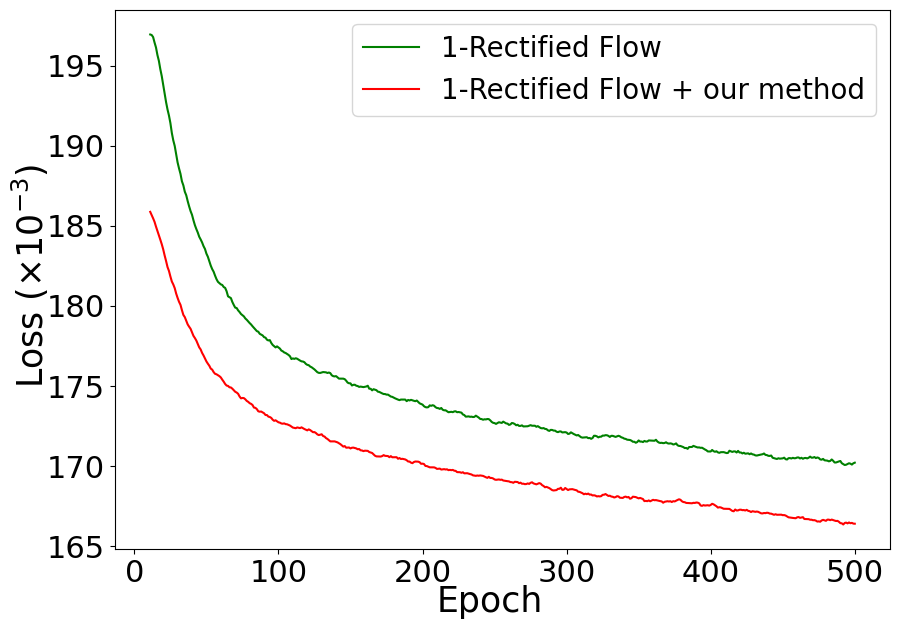
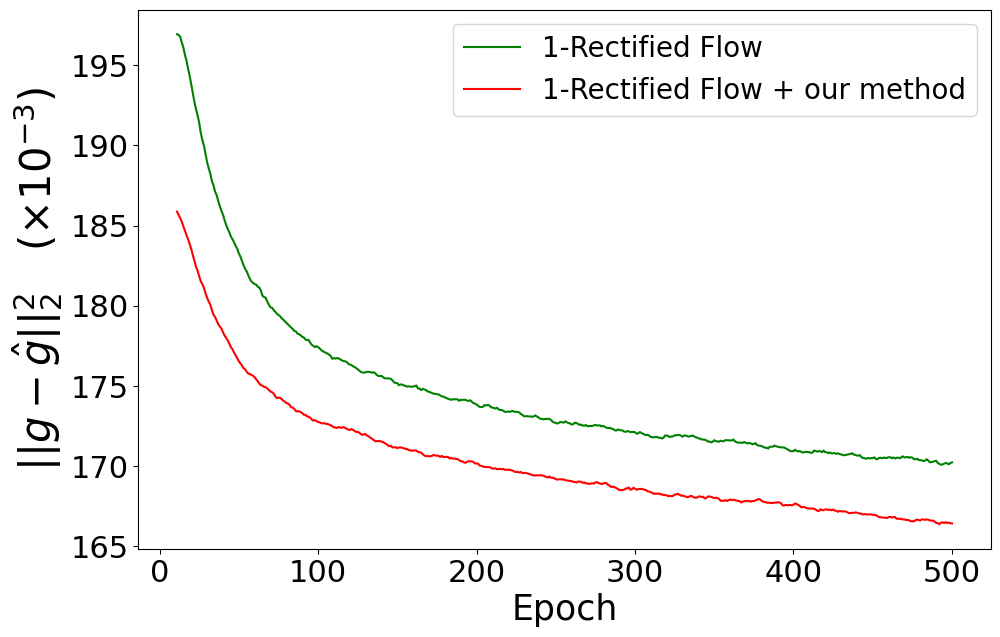
main_chart.py::track_training_curve_of_loss(): Use MSE instead of "Loss" in y_axis.

diff --git a/RectifiedFlow_Pytorch/main_chart.py b/RectifiedFlow_Pytorch/main_chart.py
@@ -487,17 +487,16 @@ def track_training_curve_of_loss():
         for i in range(1, len(list2)):
             ema = ema * ema_rate + list2[i] * (1 - ema_rate)
             list2[i] = ema
-        fig = plt.figure(figsize=(10, 7))
+        fig = plt.figure(figsize=(11, 7))
         ax1 = fig.add_subplot(1, 1, 1)
         ax1.tick_params('both', labelsize=22)
         ax1.plot(epoch_arr, list1, linestyle='-', color='g')
         ax1.plot(epoch_arr, list2, linestyle='-', color='r')
         label_arr =[f"{ith}-Rectified Flow", f"{ith}-Rectified Flow + our method"]
         ax1.legend(label_arr, fontsize=20, loc='upper right')
-        fig.subplots_adjust(hspace=0.4)
-        y_label = r"Loss ($\times 10^{-3}$)"
-        fig.supylabel(y_label, fontsize=25)  # make it horizontal
-        fig.supxlabel('Epoch', fontsize=25)
+        y_label = r"$||g-\hat{g}||_2^2 \quad (\times 10^{-3})$"
+        ax1.set_ylabel(y_label, fontsize=30)
+        ax1.set_xlabel('Epoch', fontsize=25)
         f_path = f"./charts/fig_track_training_curve_of_loss{ith}.png"
         fig.savefig(f_path, bbox_inches='tight')
         print(f"file saved: {f_path}")
